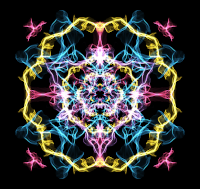
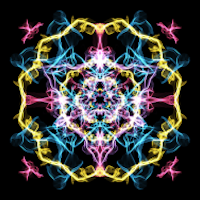
Completed JavaScript basics step

diff --git a/scripts/main.js b/scripts/main.js
@@ -1,0 +1,36 @@
+let myImage = document.querySelector('img');
+
+myImage.onclick = function() {
+    let mySrc = myImage.getAttribute('src');
+    if(mySrc === 'images/silk-image.png') {
+      myImage.setAttribute ('src','images/silk-image2.png');
+    } else {
+      myImage.setAttribute ('src','images/silk-image.png');
+    }
+}
+
+
+let myButton = document.querySelector('button');
+let myHeading = document.querySelector('h1');
+
+function setUserName() {
+    let myName = prompt('Please enter your name.');
+    if(!myName || myName == null) {
+        setUserName();
+    } else {
+        localStorage.setItem('name', myName);
+        myHeading.textContent = 'Welcome to the Test Website, ' + myName;
+    }
+    
+}
+
+if(!localStorage.getItem('name')) {
+   setUserName();
+ } else {
+   let storedName = localStorage.getItem('name');
+   myHeading.textContent = 'Welcome to the Test Website, ' + storedName;
+}
+
+myButton.onclick = function() {
+    setUserName();
+  }

diff --git a/index.html b/index.html
@@ -20,6 +20,8 @@
     </ul>
     <p>Here's a link to a website where you can
          <a href="http://weavesilk.com/">draw fun art.</a>
-        like in the image on this site</p>
+        like in the images on this site</p>
+    <button>Change user</button>
+    <script src="scripts/main.js"></script>
   </body>
 </html>
